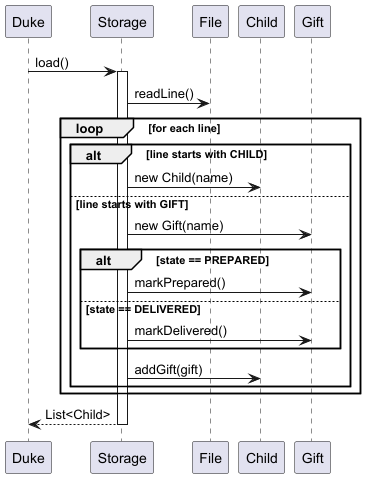
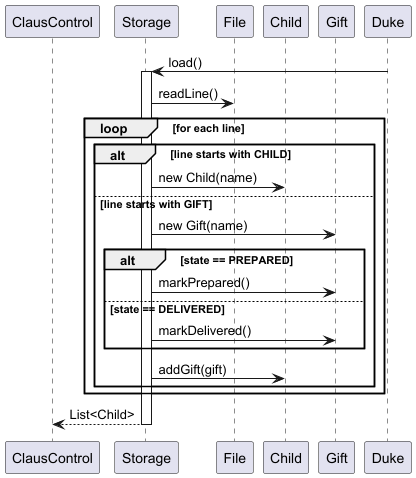
Format the DG correctly and fix storage UML diagrams

diff --git a/docs/DeveloperGuide.md b/docs/DeveloperGuide.md
@@ -157,7 +157,7 @@ Given below is the sequence diagram
 **Aspect:** How to implement the DeGift feature
   - **Alternative 1 (current choice):** Remove gift from child list
     - **Pros:** Simple to implement.
-    - - **Cons:** Requires proper error handling
+    - **Cons:** Requires proper error handling
   - **Alternative 2:** Remove gift by name
     - **Pros:** User friendly as the user need not refer to indexes.
     - **Cons:** Increases complexity of the code.
@@ -192,8 +192,8 @@ Given below is the sequence diagram
 
 **Aspect:** How to implement the Delivery Status feature
   - **Alternative 1 (current choice):** Use a boolean variable to determine action
-    - **Pros:** Less intuitive as the parameter is not clear without looking at it's implementation.
-    - - **Cons:** 
+    - **Pros:** Simple to implement.
+    - **Cons:** Less intuitive as the parameter is not clearly understandable without looking at it's implementation.
   - **Alternative 2:** Using two command objects for delivered and undelivered actions.
     - **Pros:** User friendly.
     - **Cons:** Breaks encapsulation.
